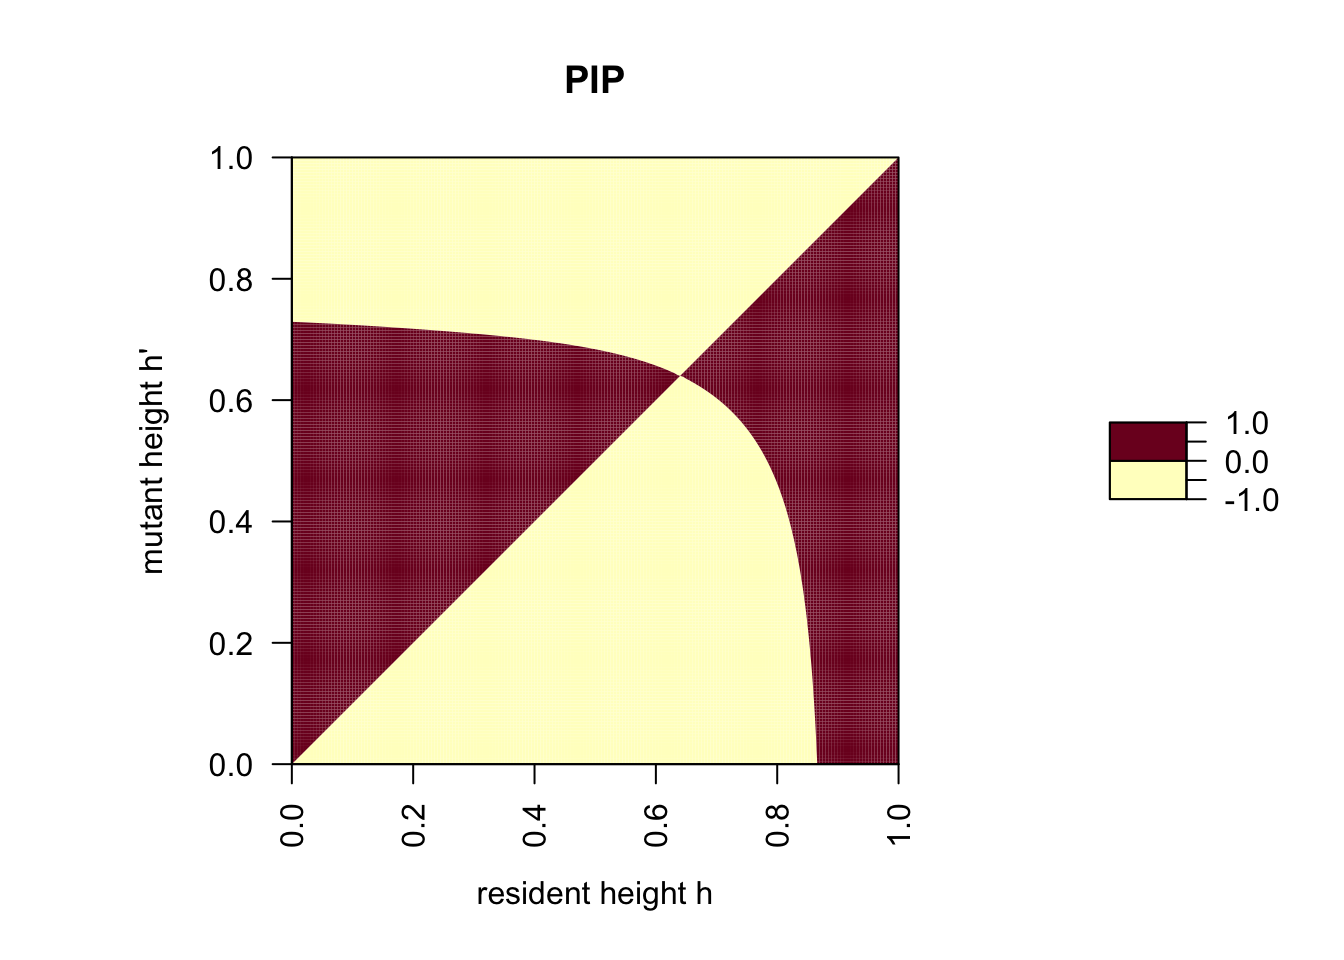
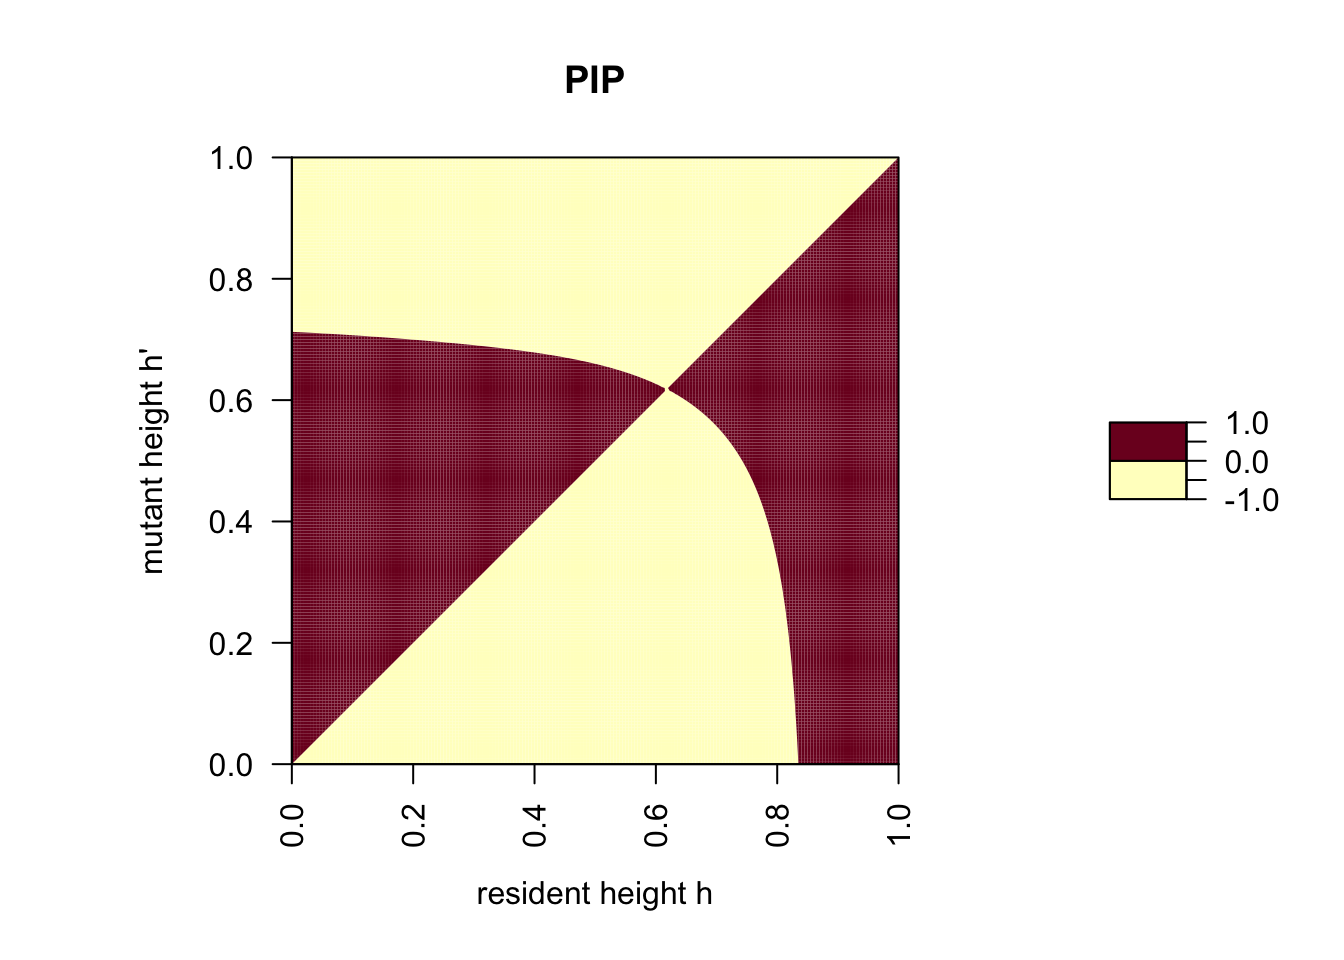
plant height with altruism

Changed region(s): [[0.2188, 0.3125, 0.625, 0.8125]]

diff --git a/docs/Evolution1.html b/docs/Evolution1.html
@@ -395,9 +395,9 @@ $(document).ready(function () {
 <p>And here the parameter values we used on the previous page.</p>
 <div class="sourceCode" id="cb2"><pre class="sourceCode r"><code class="sourceCode r"><span id="cb2-1"><a href="#cb2-1" aria-hidden="true" tabindex="-1"></a>alpha <span class="ot">&lt;-</span> <span class="dv">3</span></span>
 <span id="cb2-2"><a href="#cb2-2" aria-hidden="true" tabindex="-1"></a>beta <span class="ot">&lt;-</span> <span class="dv">5</span></span>
-<span id="cb2-3"><a href="#cb2-3" aria-hidden="true" tabindex="-1"></a>P.L <span class="ot">&lt;-</span> <span class="fl">0.2</span></span>
+<span id="cb2-3"><a href="#cb2-3" aria-hidden="true" tabindex="-1"></a>P.L <span class="ot">&lt;-</span> <span class="fl">0.25</span></span>
 <span id="cb2-4"><a href="#cb2-4" aria-hidden="true" tabindex="-1"></a>P.H <span class="ot">&lt;-</span> <span class="dv">1</span></span></code></pre></div>
-<p>Next, the defintion of the payoff function.</p>
+<p>Next, the definition of the payoff function.</p>
 <div class="sourceCode" id="cb3"><pre class="sourceCode r"><code class="sourceCode r"><span id="cb3-1"><a href="#cb3-1" aria-hidden="true" tabindex="-1"></a>w <span class="ot">&lt;-</span> <span class="cf">function</span>(h.m, h.r) {</span>
 <span id="cb3-2"><a href="#cb3-2" aria-hidden="true" tabindex="-1"></a>  <span class="fu">f</span>(h.m) <span class="sc">*</span> <span class="fu">g</span>(h.m, h.r)</span>
 <span id="cb3-3"><a href="#cb3-3" aria-hidden="true" tabindex="-1"></a>}</span></code></pre></div>
@@ -440,6 +440,75 @@ $(document).ready(function () {
 <p><img src="Evolution1_files/figure-html/unnamed-chunk-7-1.png" width="672" /></p>
 <p>In this last plot the red area corresponds to combinations of heights <em>h’</em> and <em>h</em> where neither can invade the other. In other words: whoever was first wins. In contrast, the blue areas correspond to combinations of heights where either the mutant or the resident wins. These results show that in the current model it is not possible for two plant species with differet heights to coexist: there always exists a unique heigh that will win against plants with any other height.</p>
 <p>In fact there is quite a bit more one can read from this plot. These techniques involving PIPs are often referred to as <em>Adaptive Dynamics</em> or <em>Evolutionary Invasion Analysis</em>. If you want to learn more about this, Chapter 7 in the book by Kokko (2007) is a good starting point.</p>
+<!--
+### A model with kin selection
+
+Let us now assume that seeds do not disperse far so that new plants grow next to their mother plant. Mother plant and offspring will share the gene for tree height by common decent with probability $r$, the relatedness coefficient. The payoff to a rare mutant with allele $h'$ is then given by
+
+$$
+\begin{align}
+w(h', h) & = r f(h')g(h', h') + (1 -r) f(h')g(h', h),
+\end{align}
+$$
+
+while the payoff to a resident plant is simply given by
+
+$$
+\begin{align}
+w(h, h) & = f(h)g(h, h)
+\end{align}
+$$
+
+Invasion fitness, here defined as the difference in payoff between mutant and resident is then given by
+
+$$
+\begin{align}
+s(h', h) & = w(h', h) - w(h, h)\\
+         & = r f(h')g(h', h') + (1 -r) f(h')g(h', h) - f(h)g(h, h)\\
+         & = r f(h') [ g(h', h') - g(h', h)] + f(h')g(h', h) - f(h)g(h, h)
+\end{align}
+$$
+
+The factor in square brackets describes the change in shading due to a mutant individual growing next to another mutant individual due to change in plant height. If $h' < h$ this term is positive and can be interpreted as a benefit to the neighboring plant. It is the indirect effect of changing from $h'$ to $h$. The term $f(h')g(h', h) - f(h)g(h, h)$ describes the change in payoff by changing from $h'$ to $h$. This term describes the direct effect on the focal plant.
+
+
+```r
+s <- function(h.m, h.r) {
+  r * f(h.m) * (g(h.m, h.m) - g(h.m, h.r)) + f(h.m) * g(h.m, h.r) - f(h.r) * g(h.r, h.r)  
+}
+```
+
+
+```r
+r <- 0.5
+alpha <- 3
+beta <- 5
+P.L <- 0.25
+P.H <- 1
+
+
+s(0.4, 0.6)
+```
+
+```
+## [1] 0.01389844
+```
+
+
+```r
+PIP <- outer(seq(0, 1, 0.005), seq(0, 1, 0.005), s)
+# the computes s(h', h) for all combinations of h' and h
+
+par(pty="s")
+filled.contour(t(PIP), levels = c(-1, 0, 1), main = "PIP", las = 2,
+               xlab = expression("resident height h"),
+               ylab = expression("mutant height h'"))
+```
+
+<img src="Evolution1_files/figure-html/unnamed-chunk-10-1.png" width="672" />
+
+As we can see, kin selection reduced the ESS plant height from approximately 0.62 to approximately 0.5.
+-->
 </div>
 
 

diff --git a/docs/SelfSacrifice.html b/docs/SelfSacrifice.html
@@ -465,9 +465,9 @@ s(p&#39;, p)  = (p&#39; - p) (-c + r b),
 r b &gt; c.
 \]</span></p>
 <p>This last inequality is known as <strong>Hamilton’s Rule</strong>. It says that an altruistic act can evolve only if the benefit <span class="math inline">\(b\)</span> of an altruistic act, weighted by the coefficient of relatedness <span class="math inline">\(r\)</span> between the actor and receiver, is larger than the costs <span class="math inline">\(c\)</span> to the actor.</p>
-<p>The partial derivative of <span class="math inline">\(s(p&#39;, p)\)</span> with respect to <span class="math inline">\(p&#39;\)</span> evaluated at <span class="math inline">\(p&#39; = p\)</span> equals</p>
+<p>The partial derivative of <span class="math inline">\(s(p&#39;, p)\)</span> with respect to <span class="math inline">\(p&#39;\)</span> and evaluated at <span class="math inline">\(p&#39; = p\)</span> equals</p>
 <p><span class="math display">\[
-\frac{\partial s(p&#39;, p)}{\partial p&#39;}\bigg|_{p&#39; = p} = -(S + B p) + r (1 - p&#39;),
+\frac{\partial s(p&#39;, p)}{\partial p&#39;}\bigg|_{p&#39; = p} = -(S + B p) + r (1 - p&#39;)B,
 \]</span> indicating the selection favors mutants with increased propensity to self-sacrifice if and only if <span class="math inline">\(rb&gt;c\)</span>, that is, if Hamilton’s rule is fulfilled.</p>
 <p>What is the ESS for this model? To answer this question we again plot the PIP.</p>
 <div class="sourceCode" id="cb3"><pre class="sourceCode r"><code class="sourceCode r"><span id="cb3-1"><a href="#cb3-1" aria-hidden="true" tabindex="-1"></a>w <span class="ot">&lt;-</span> <span class="cf">function</span>(p.m, p.r) {</span>
